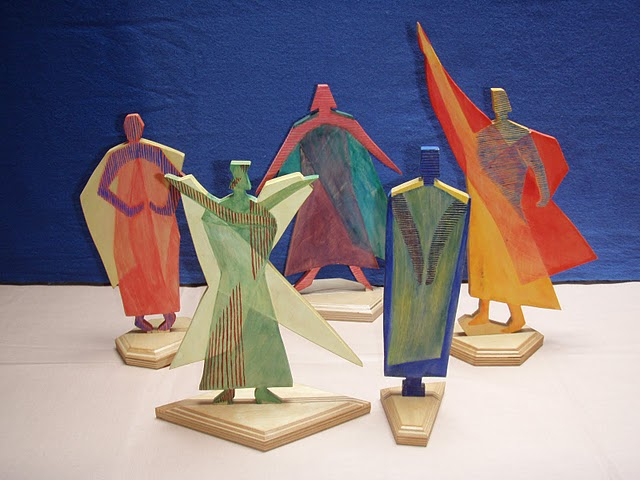
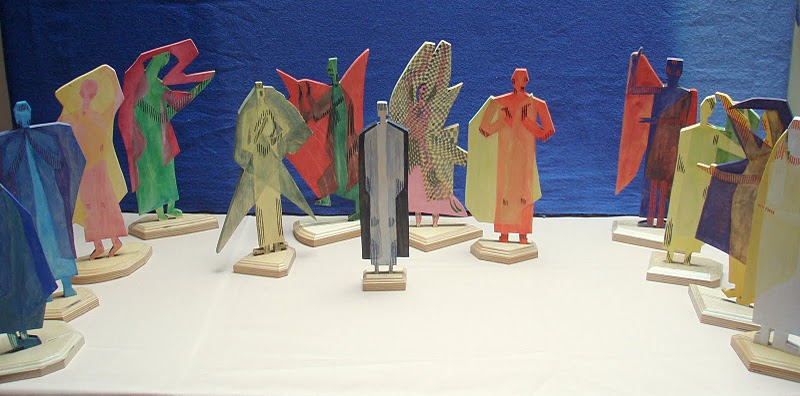
Add files via upload

diff --git a/style.css b/style.css
@@ -203,10 +203,8 @@ footer {
 /* Banner image */
 .site-banner {
   width: 100%;
-  max-height: 500px;
-  object-fit: contain;
-  background-color: #1a3a6b;
-  
-  
+  height: 400px;
+  object-fit: cover;
+  object-position: center 25%;
   display: block;
 }
